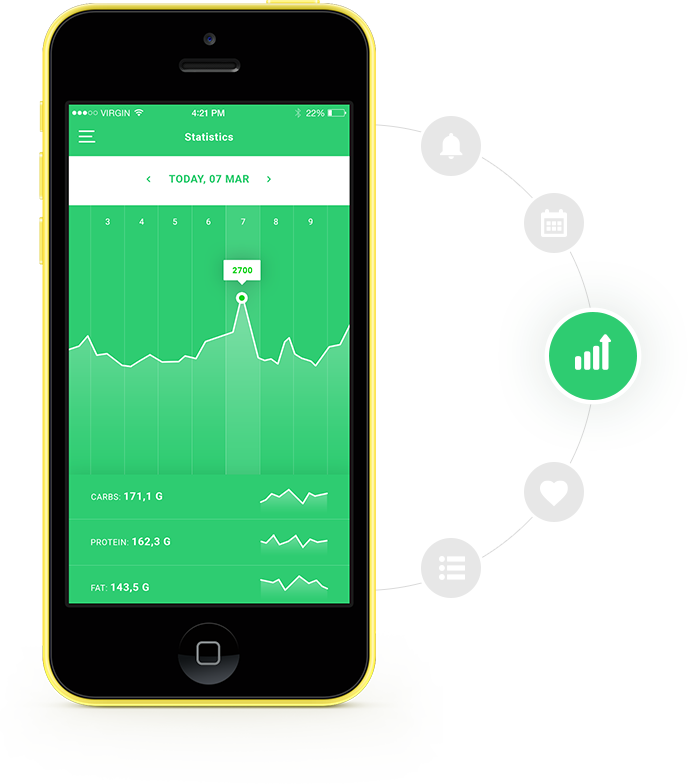
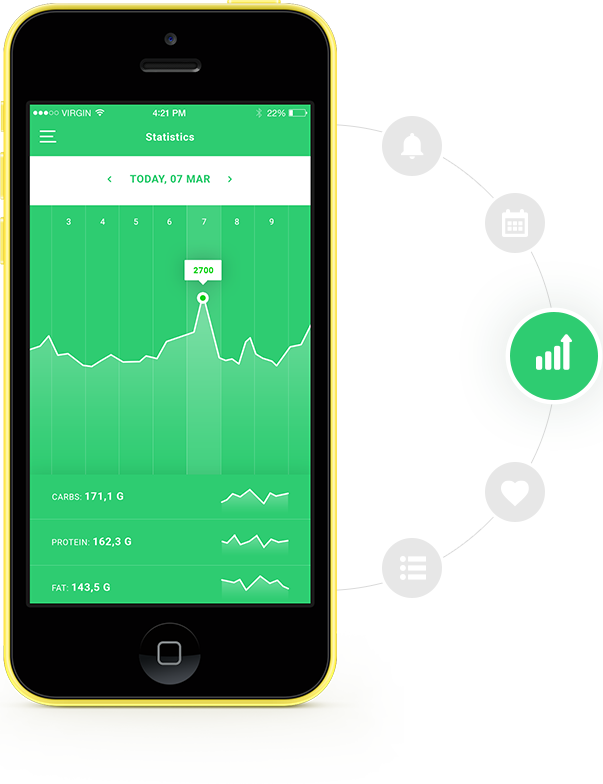
add styles for features

diff --git a/source/index.html b/source/index.html
@@ -61,11 +61,13 @@
   <main class="page-main">
     <h1 class="visually-hidden">Fit app website</h1>
     <section class="features">
-      <img class="features__image" width="688" height="784" src="img/features.png" alt="Mobile phone.">
-      <div class="features__wrapper">
-        <h2 class="page-main__title features__title">Best calorie <span class="page-main__title--green">counter app!</span></h2>
-        <p class="features__text">Lorem ipsum dolor sit amet, consectetur adipisicing elit,
-          sed do eiusmod tempor incididunt ut labore et dolore magna aliqua. Ut enim ad minim veniam.</p>
+      <div class="wrapper features__wrapper">
+        <img class="features__image" width="688" height="784" src="img/features.png" alt="Mobile phone.">
+        <div class="features__container">
+          <h2 class="page-main__title features__title">Best calorie <span class="page-main__title--green">counter app!</span></h2>
+          <p class="features__text">Lorem ipsum dolor sit amet, consectetur adipisicing elit,
+            sed do eiusmod tempor incididunt ut labore et dolore magna aliqua. Ut enim ad minim veniam.</p>
+        </div>
       </div>
     </section>
     <section class="plan">

diff --git a/source/sass/blocks/features.scss b/source/sass/blocks/features.scss
@@ -1,0 +1,22 @@
+.features {
+  padding-top: 40px;
+}
+
+.features__wrapper {
+  position: relative;
+  left: -45px;
+  display: flex;
+  align-items: center;
+}
+
+.features__image {
+  margin-right: 40px;
+}
+
+.features__text {
+  font-weight: 300;
+  font-size: 18px;
+  line-height: 32px;
+  letter-spacing: 0.003em;
+  color: $text-grey;
+}

diff --git a/source/sass/visually-hidden.scss b/source/sass/visually-hidden.scss
@@ -1,0 +1,16 @@
+.visually-hidden:not(:focus):not(:active),
+input[type="checkbox"].visually-hidden,
+input[type="radio"].visually-hidden {
+  position: absolute;
+
+  width: 1px;
+  height: 1px;
+  margin: -1px;
+  border: 0;
+  padding: 0;
+
+  white-space: nowrap;
+  clip-path: inset(100%);
+  clip: rect(0 0 0 0);
+  overflow: hidden;
+}

diff --git a/source/sass/blocks/page-main.scss b/source/sass/blocks/page-main.scss
@@ -1,0 +1,14 @@
+.page-main__title {
+  margin: 0;
+  margin-bottom: 15px;
+  min-width: 300px;
+  font-weight: 300;
+  font-size: 48px;
+  line-height: 60px;
+  letter-spacing: 0.003em;
+  color: $text-grey;
+}
+
+.page-main__title--green {
+  color: $main-green;
+}

diff --git a/source/sass/style.scss b/source/sass/style.scss
@@ -1,6 +1,7 @@
 @import "fonts.scss";
 @import "global.scss";
 @import "colours.scss";
+@import "visually-hidden.scss";
 
 //typical blocks
 @import "blocks/wrapper.scss";
